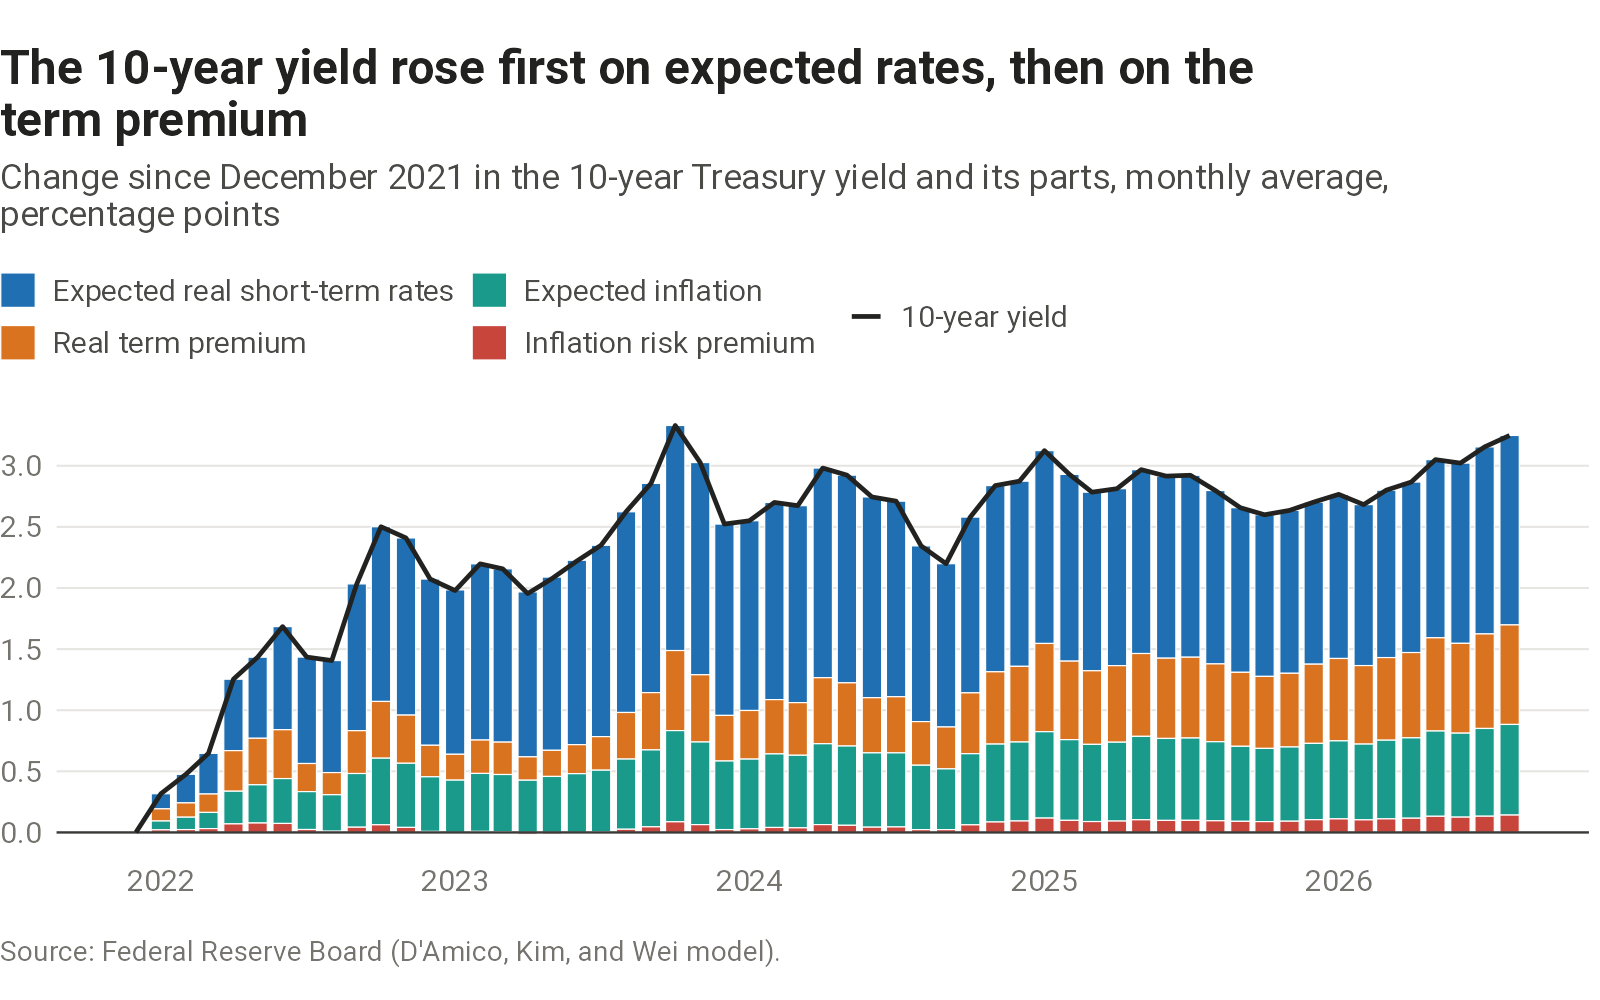
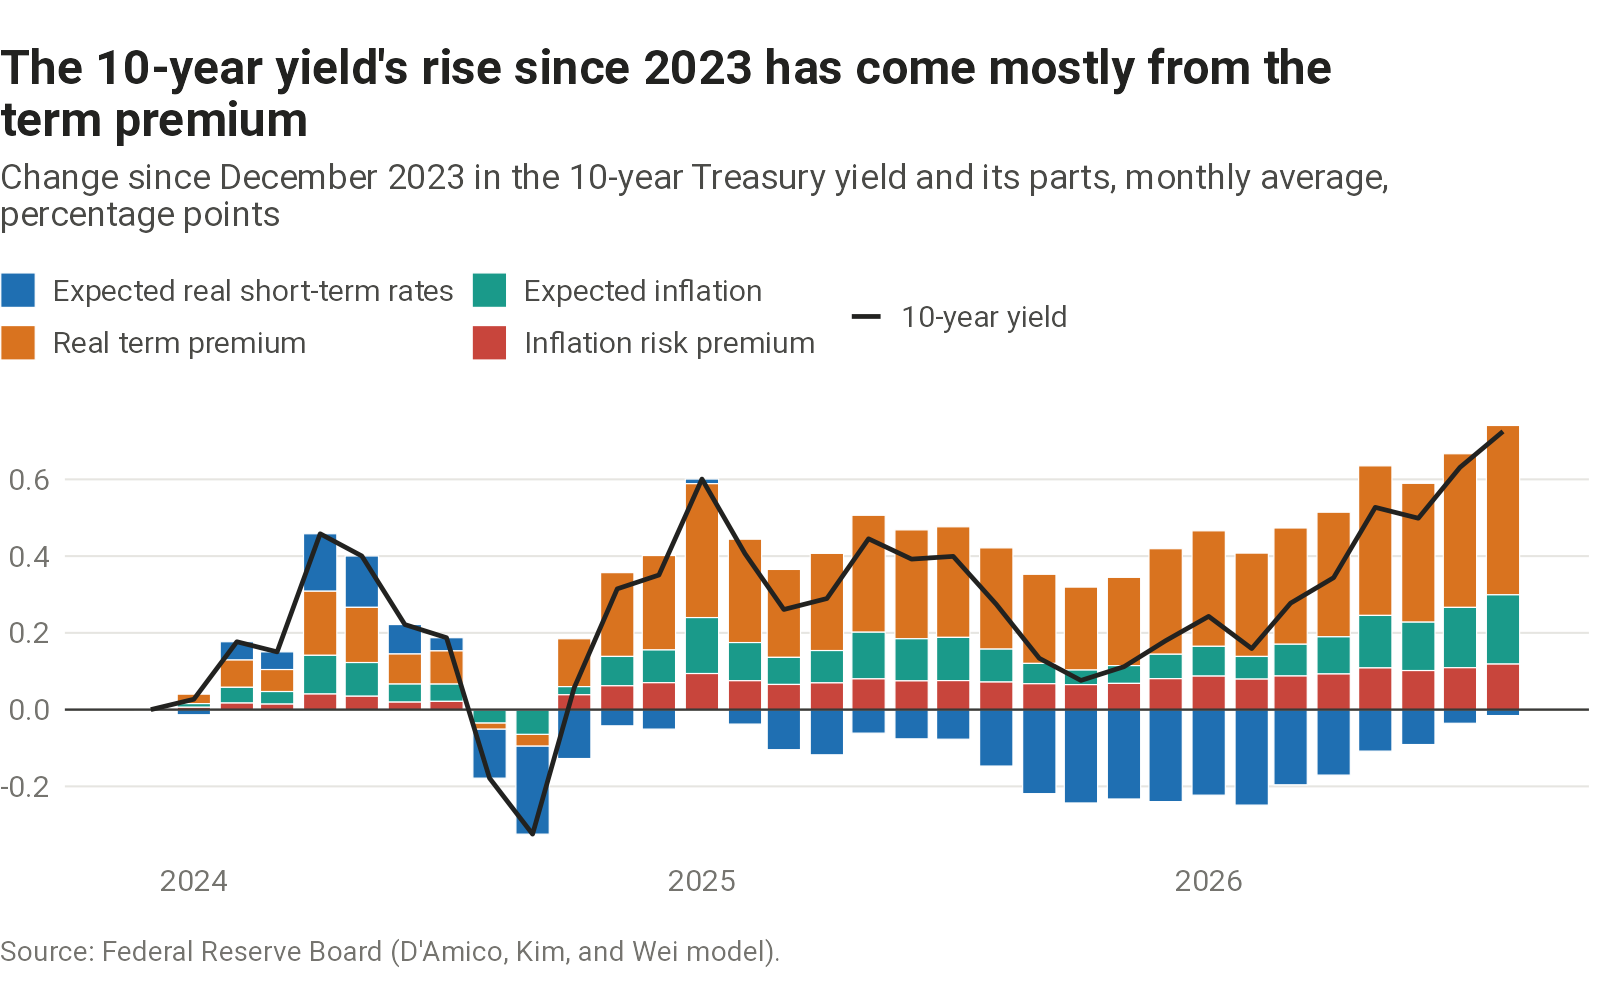
Measure the 10-year yield context chart from December 2023
The hiking cycle's rise set the scale when measured from 2021 and hid
the term premium; the text now gives the rise since 2021 in one
sentence.

Claude-Session: https://claude.ai/code/session_01C4kQtTHdakDNHHerQuEFwM

diff --git a/charts/yield-decomposition/spec.md b/charts/yield-decomposition/spec.md
@@ -30,9 +30,9 @@ Commentary, September 2026, for context:
 ## Transformations
 
 - The four parts sum to the fitted 10-year zero-coupon yield. The TIPS liquidity premium, also in the file, is part of inflation compensation measured from inflation-protected securities, not of the nominal yield, and is not used.
-- Monthly averages of daily values, then the change from the December 2021 average, the last month before the Fed began raising rates.
+- Monthly averages of daily values, then the change from the December 2023 average, the last month before the term premium's rise. The text's rise since before the Fed began hiking uses the December 2021 average.
 - Term premium in the text = real term premium plus inflation risk premium. Expected rates = expected real short-term rates plus expected inflation.
-- The CSV has monthly levels since 1983 and changes since December 2021.
+- The CSV has monthly levels since 1983 and changes since December 2023.
 
 ## Vintages
 
@@ -65,3 +65,4 @@ Commentary, September 2026, for context:
 - 2026-09-26: Replace the two-model bar chart (ACM against Kim-Wright, change over one and two years) with a monthly decomposition of the change since December 2023 from DKW, following how Tedeschi and Moody's chart it. Time series of levels and of 12-month changes were tried and dropped as hard to read. DKW is the one public model that also splits real rates from inflation, which the storyline asks about.
 - 2026-09-26: Title: "The 10-year yield's rise since 2023 has come mostly from the term premium." Check on each refresh that the term premium is still the largest part.
 - 2026-09-26: Measure from December 2021 so the chart gives context back to the start of the hiking cycle, and add a second chart, `charts/yield-rise-by-model/`, for this year's rise with both models. Renamed from `charts/term-premium/`. Title: "The 10-year yield rose first on expected rates, then on the term premium." Change since December 2021 through August 2026: yield +3.25, expected real short-term rates +1.55, real term premium +0.81, expected inflation +0.74, inflation risk premium +0.14. The text says the term premium accounted for "most of the further rise" since 2023 (0.56 of 0.72); check on each refresh.
+- 2026-09-26: Back to measuring from December 2023. From 2021, the hiking cycle's 2.5-point rise in expected rates set the scale and shrank the term premium, which the debate is about; the text gives the rise since 2021 in one sentence. Title: "The 10-year yield's rise since 2023 has come mostly from the term premium."

diff --git a/charts/yield-decomposition/output/yield-decomposition-lead.md b/charts/yield-decomposition/output/yield-decomposition-lead.md
@@ -1,1 +1,1 @@
-The 10-year Treasury yield has risen about 3 percentage points since the end of 2021, first because investors expected higher interest rates and more recently because they want more compensation for holding long-term bonds. In the Fed Board's model, the rise through 2023 came mostly from higher expected short-term rates as the Fed raised rates to bring down inflation. Since then, the term premium—the extra return investors require to lock up money for 10 years instead of rolling over short-term bills—has accounted for most of the further rise.
+The 10-year Treasury yield is about 3 percentage points higher than before the Fed began raising rates in 2022, and since the end of 2023 the term premium has done most of the rising. In the Fed Board's model, the yield averaged 0.72 point more in August 2026 than in December 2023. The term premium—the extra return investors require to lock up money for 10 years instead of rolling over short-term bills—accounted for 0.56 point of that and expected inflation 0.18, while expected real short-term rates were little changed.
